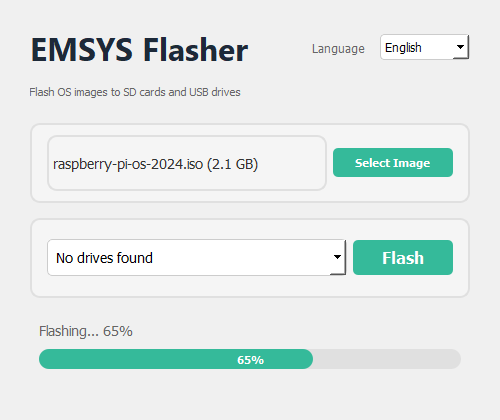
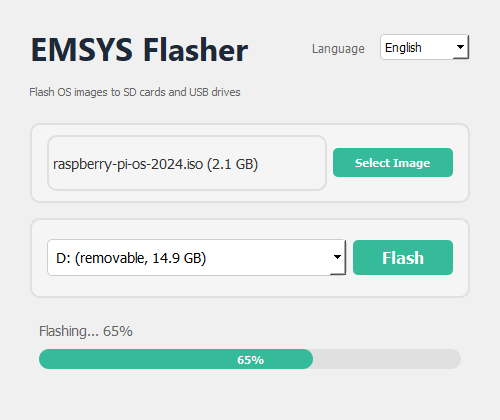
Fix flashing screenshots to show drive selected instead of 'No drives found'

Changed region(s): [[0.09, 0.5881, 0.42, 0.65]]

diff --git a/screenshot.py b/screenshot.py
@@ -40,7 +40,10 @@ def capture_screenshots():
     time.sleep(0.5)
     take_screenshot(window, "screenshot_image_selected.png")
 
-    # Simulate progress
+    # Simulate drive selection and progress
+    window.drive_combo.clear()
+    window.drive_combo.addItem("D: (removable, 14.9 GB)", "D:")
+    window.drive_combo.setCurrentIndex(0)
     window.status_label.setText(t("flashing_status", pct=65))
     window.progress_bar.setValue(65)
     app.processEvents()
@@ -49,8 +52,11 @@ def capture_screenshots():
     time.sleep(0.5)
     take_screenshot(window, "screenshot_flashing.png")
 
-    # Switch to Persian
+    # Switch to Persian with drive selected
     window.change_language(1)  # Index 1 = Persian
+    window.drive_combo.clear()
+    window.drive_combo.addItem("D: (قابل جدا شدن، 14.9 گیگابایت)", "D:")
+    window.drive_combo.setCurrentIndex(0)
     app.processEvents()
 
     # Screenshot 4: Persian language
